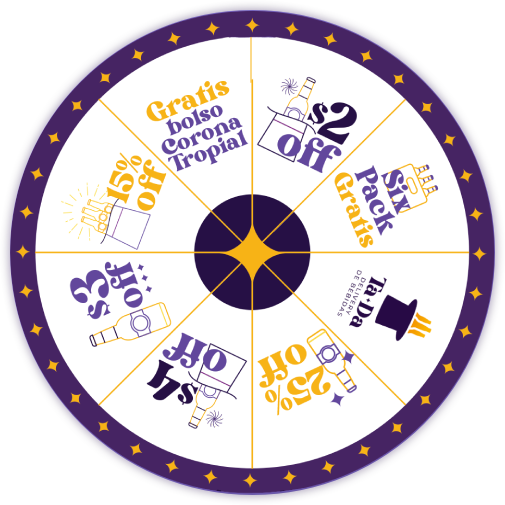
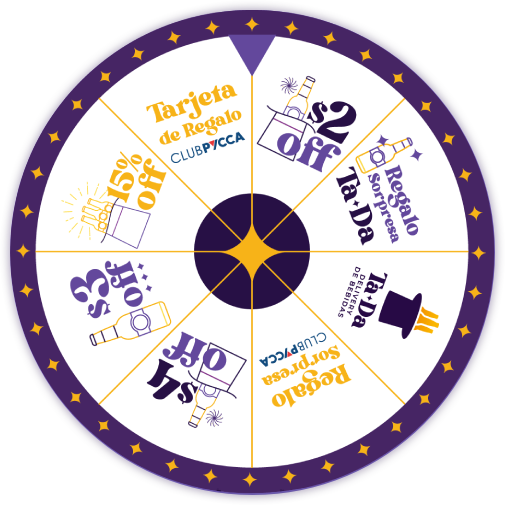
update de ruleta

diff --git a/src/app/inapps/roulette/roulette.component.ts b/src/app/inapps/roulette/roulette.component.ts
@@ -2,14 +2,14 @@ import { Component, OnInit } from '@angular/core';
 import Swal from 'sweetalert2';
 // Counter clockwise
 const symbolSegments: any = {
-  1: "TROPICAL <br> <span style='font-size:0.9rem;font-family: Monserrat !important;'>Gratis bolso Corona Tropical</span>",
-  2: "VERANO2 <br> <span style='font-size:0.9rem;font-family: Monserrat !important;'>15% de Descuento en cervezas</span>",
-  3: "TADAFUN <br> <span style='font-size:0.9rem;font-family: Monserrat !important;'>3$ de Descuento en cervezas</span>",
-  4: "SUMMERLOVE <br> <span style='font-size:0.9rem;font-family: Monserrat !important;'>4$ de Descuento en cervezas</span>",
-  5: "SOL <br> <span style='font-size:0.9rem;font-family: Monserrat !important;'>25% De Descuento en cervezas</span>",
+  1: '¡Felicidades tienes un gift card de $5  CLUBPYCCA!  Recíbelo en el stand.',
+  2: '!Felicidades tienes 15% gratis en cervezas! Recibe tu cupón en el stand.',
+  3: '!Felicidades tienes $3 gratis en cervezas! Recibe tu cupón en el stand.',
+  4: '!Felicidades tienes $4 gratis en cervezas! Recibe tu cupón en el stand.',
+  5: '¡Felicidades tienes un premio CLUBPYCCA! Recíbelo en el stand.',
   6: 'Lo Sentimos, Sigue participando',
-  7: "SIXCARNAVAL <br> <span style='font-size:0.9rem;font-family: Monserrat !important;'>Six pack Gratis</span>",
-  8: "RULETA <br> <span style='font-size:0.9rem;font-family: Monserrat !important;'>$2 de Descuento en cerveza</span>",
+  7: '¡Felicidades tienes un premio TaDa! Recíbelo en el stand.',
+  8: '!Felicidades tienes $2 gratis en cervezas! Recibe tu cupón en el stand. ',
 };
 
 @Component({
@@ -43,7 +43,7 @@ export class RouletteComponent implements OnInit {
         imageAlt: 'Custom image',
         html: `${
           winningSymbolNr != 6
-            ? `<h3 style='font-size:0.9rem;font-family: Monserrat !important;'>Tu cupón de regalo es: </h2><br><h3 style='font-family: Bright !important;font-size: 2.6rem;color: #270a45;'>
+            ? `<h3 style='font-family: Bright !important;font-size: 2.6rem;color: #270a45;'>
               ${symbolSegments[winningSymbolNr]} 
               </h3>`
             : ''
